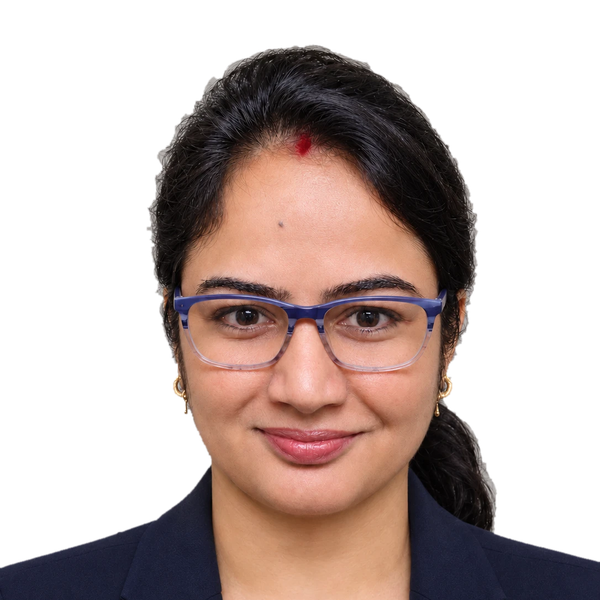
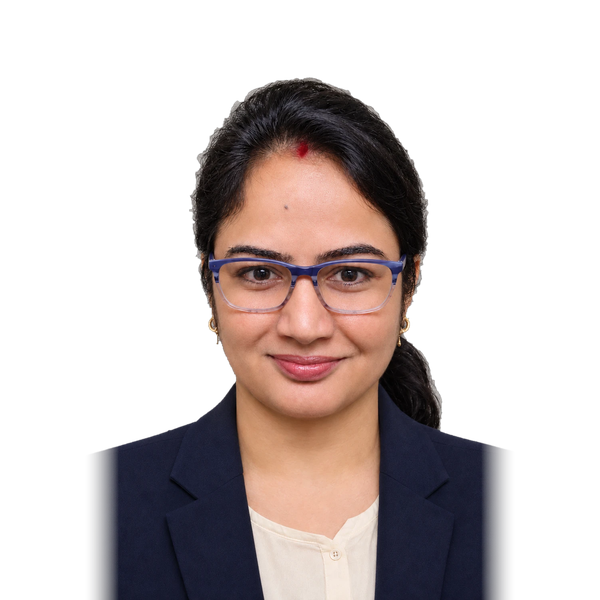
Zoom out Kavita's photo; version image URLs by mtime so replaced images are never stale

diff --git a/inc/setup.php b/inc/setup.php
@@ -47,7 +47,10 @@ add_filter( 'wp_resource_hints', function ( $urls, $relation ) {
 
 /** Theme image URL helper. */
 function kg_img( $file ) {
-	return esc_url( get_template_directory_uri() . '/assets/img/' . $file );
+	$path = get_template_directory() . '/assets/img/' . $file;
+	// The file's mtime in the URL means a replaced image is never served from a stale browser or CDN cache.
+	$ver = file_exists( $path ) ? '?v=' . filemtime( $path ) : '';
+	return esc_url( get_template_directory_uri() . '/assets/img/' . $file . $ver );
 }
 
 /**
